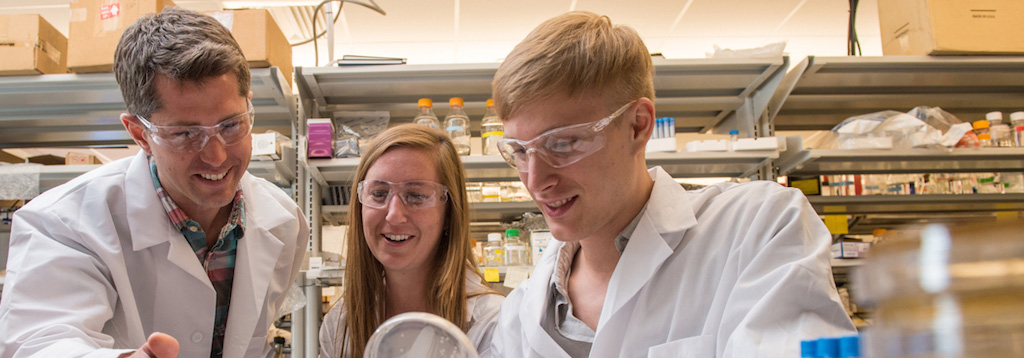
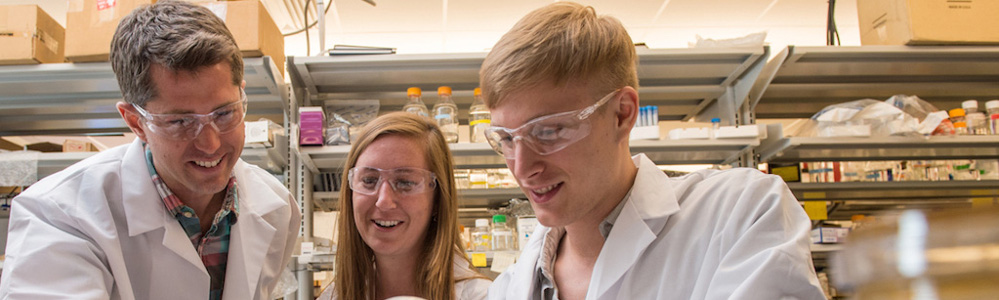
Added new images for cold spring harbor, changed carousel height from 350px to 300, added the new rice quad image to the carousel, and increased the size of tabor lab within the nav.

diff --git a/directory/education.html b/directory/education.html
@@ -51,10 +51,19 @@
       </div> -->
       <div class="text">
         <h1>Cold Spring Harbor Laboratory Synthetic Biology Course</h1>
-        <a  href="http://www.cshl.edu/images/stories/about_us/annual_reports/2013_CSHL_FactSheet.pdf"><img alt="" class="img-responsive img-rounded" src="../Images/Education/Cold_Spring_Harbor.png"></a>
+        <img alt="..." title="Cold Spring Harbor" class="img-responsive img-rounded" src="../Images/Education/CSHL_wide.png">
         <!-- Education/Cold_Spring_Harbor.png"> -->
         <br>
-        <p>In 2013, Jeff and Evan co-organized and co-taught the first ever synthetic biology course at the historic Cold Spring Harbor laboratory. At the course, we taught students from a wide range of backgrounds our methods in optogenetic characterization of bacterial gene circuits, including hardware design. The other instructors covered metabolic engineering, in vitro transcription-translation (TX-TL), RNA circuit design, metabolic engineering and mammalian synthetic biology. Leading synthetic biologists from around the country lectured and interacted with the students in the lab. In 2014, Jeff and Evan taught the course again. and this year Jeff is an organizer and guest lecturer.<h3 style="text-align: center"><a href="http://meetings.cshl.edu/courses/2014/c-synbio14.shtml" target="_blank" class="btn btn-success btn-lg">Course website here</a></h3></p>
+        <div class="row">
+          <div class="col-sm-8">
+            In 2013, Jeff and Evan co-organized and co-taught the first ever synthetic biology course at the historic Cold Spring Harbor laboratory. At the course, we taught students from a wide range of backgrounds our methods in optogenetic characterization of bacterial gene circuits, including hardware design. The other instructors covered metabolic engineering, in vitro transcription-translation (TX-TL), RNA circuit design, metabolic engineering and mammalian synthetic biology. Leading synthetic biologists from around the country lectured and interacted with the students in the lab. In 2014, Jeff and Evan taught the course again. and this year Jeff is an organizer and guest lecturer.
+            <h3 style="text-align: center"><a href="http://meetings.cshl.edu/courses/2014/c-synbio14.shtml" target="_blank" class="btn btn-success btn-lg">Course website here</a></h3>
+          </div>
+          <div class="col-sm-4">
+            <img alt="..." title="Watson with Jeff 2014" class="img-responsive img-rounded" src="../Images/Education/Watson_2014.jpg">
+          </div>
+        </div>
+        
       </div>
 
       <div class="text">

diff --git a/index.html b/index.html
@@ -50,30 +50,30 @@
         <!-- Indicators -->
         <ol class="carousel-indicators">
           <li data-target="#banner" data-slide-to="0" class="active"></li>
-<!--           <li data-target="#banner" data-slide-to="1"></li>
-          <li data-target="#banner" data-slide-to="2"></li> -->
+          <li data-target="#banner" data-slide-to="1"></li>
+          <li data-target="#banner" data-slide-to="2"></li>
         </ol>
        
         <!-- Wrapper for slides -->
         <div class="carousel-inner">
-<!--           <div class="item active">
-            <img class="image" src="Images/BRC.jpg" alt="...">
-            <div class="carousel-caption">
-                <h3>Caption Text</h3>
-            </div>
-          </div> -->
           <div class="item active">
+            <img class="image" src="Images/Carousel/Rice_Quad2.JPG" alt="Photo Credit Rishija Misra">
+            <div class="carousel-caption">
+                <!-- <h3>Caption Text</h3> -->
+            </div>
+          </div>
+          <div class="item">
             <img class="image" src="Images/Carousel/group.jpg" alt="...">
             <div class="carousel-caption">
                 <!-- <h3>Caption Text</h3> -->
             </div>
           </div>
-<!--           <div class="item">
-            <img src="Images/microscope.png" alt="...">
+          <div class="item">
+            <img src="Images/Carousel/microscope.png" alt="...">
             <div class="carousel-caption">
-                <h3>Caption Text</h3>
+                <!-- <h3>Caption Text</h3> -->
             </div>
-          </div> -->
+          </div>
         </div>
        
         <!-- Controls -->

diff --git a/dist/css/custom.css b/dist/css/custom.css
@@ -5,7 +5,7 @@ body {
 }
 .banner-placement {
 	position: relative;
-	/*max-height: 400px;*/
+	/*max-height: 150px;*/
 	margin-bottom: 15px;
 }
 .item {
@@ -57,11 +57,13 @@ body {
     to {background: rgba(165, 200, 237, 0.21);}
 }
 .navbar-default .navbar-brand {
-	font-size: 22px;
+	font-size: 24px;
+	/*color: #383838;*/
 	color: #337ab7;
 }
 .navbar-default .navbar-brand:hover,
 .navbar-default .navbar-brand:focus {
+	/*color: #232324;*/
 	color: #0057A1;
 }
 .container {
@@ -73,6 +75,7 @@ p {
 	/*text-align: justify;*/
 }
 .splash {
+	/*background-color: #383838;*/
 	background-color: #337ab7;
 	padding: .2em .6em .3em;
 	font-size: 75%;
